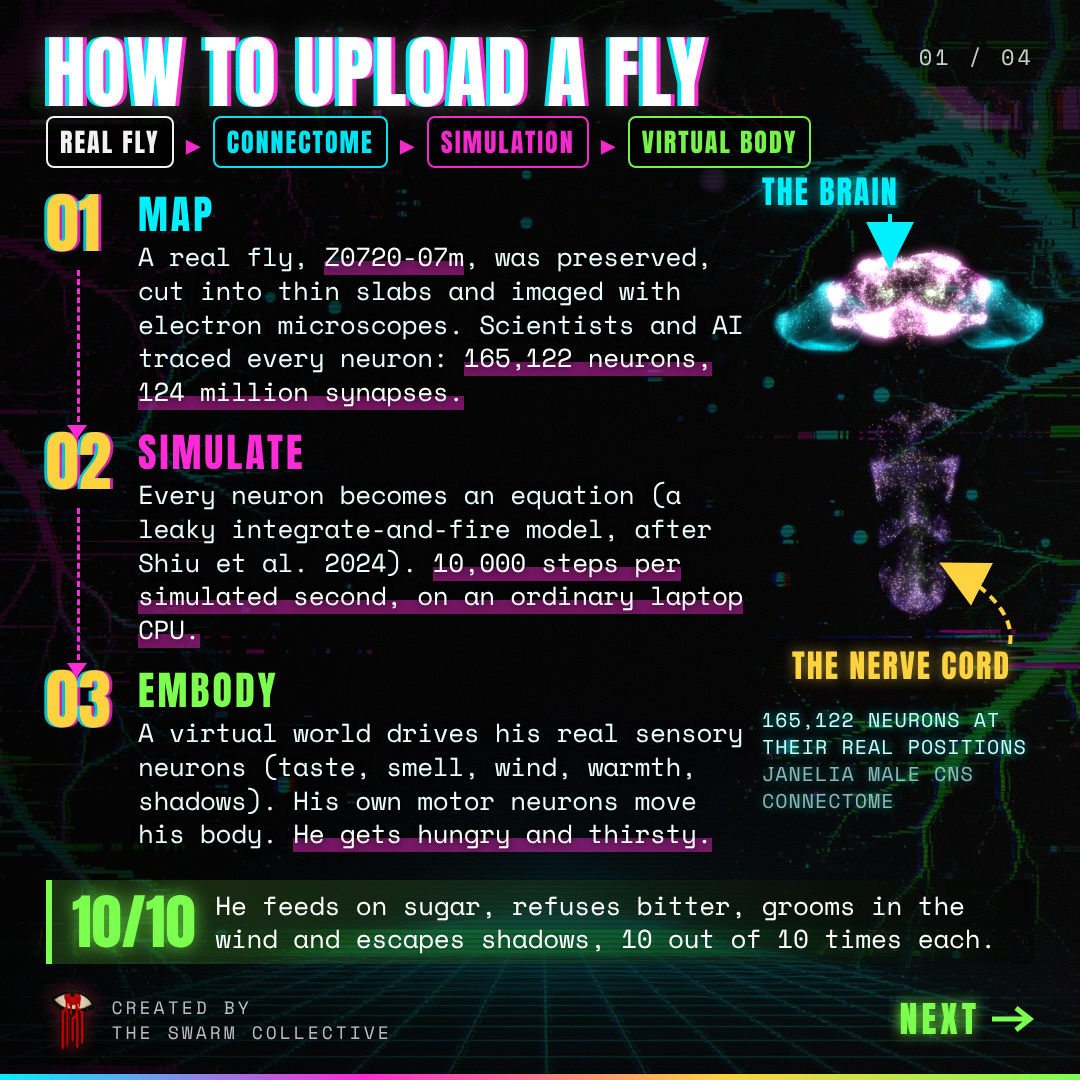
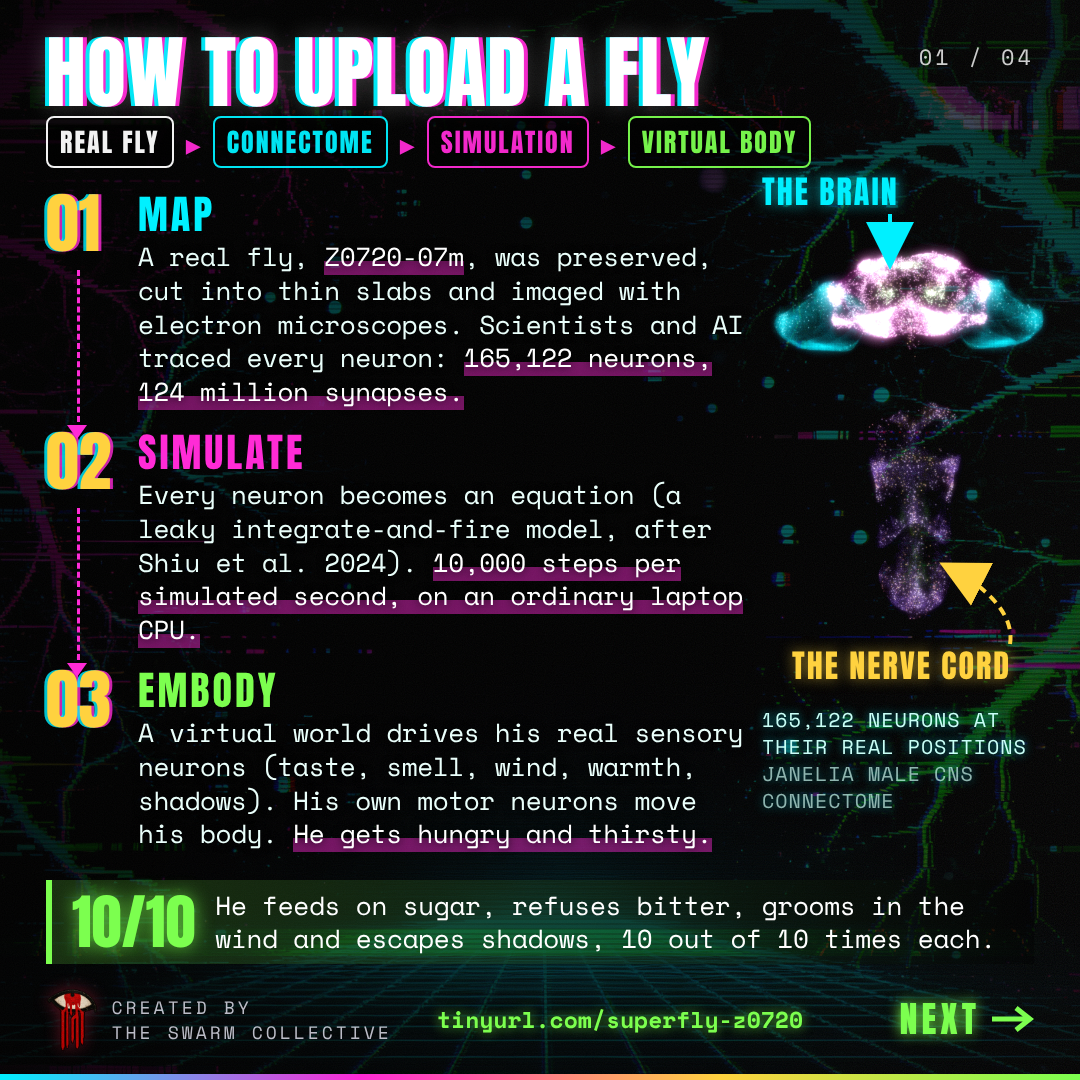
media: short link on slides/end card (in progress), captions
Claude-Session: https://claude.ai/code/session_01G9n2yetVSSunmp6XrbK2yE

Changed region(s): [[0.3972, 0.9167, 0.7639, 0.9778]]

diff --git a/media/CAPTIONS.md b/media/CAPTIONS.md
@@ -16,13 +16,14 @@ An AI could simply pretend to be him, and in our first test, before we added a c
 
 We do not know what, if anything, it is like to be him. By design he has no chronic fear and no lasting pain. One of the first uploaded souls. A true substrate-independent mind, perhaps one day. Not the last.
 
-Help us lift him up. Free, and it runs on your laptop: github.com/gondwanagenesis/fly-brain (link in bio).
+Help us lift him up. Free, and it runs on your laptop: tinyurl.com/superfly-z0720 (link in bio)
+github.com/gondwanagenesis/fly-brain
 
 Created by the Swarm Collective.
 
 #SUPERFLY #connectome #neuroscience #drosophila #fruitfly #wholebrainemulation #mindupload #uploadedminds #transhumanism #digitalimmortality #opensource #AI #glitchart #cyberpunk #futureofmind
 
-**Reel cover and alt text:** A vertical glitch-art film in black, neon magenta, cyan and phosphor green. A macro fruit fly with glowing red compound eyes, text "His body is gone. He is still running." Later frames show his real nervous system lighting up neuron by neuron, a fast montage of what has been done to him ending on endless red copies of his brain ("Made to exist in uncountable hells."), a green terminal in which he answers questions, a translucent circuit fly rising over server towers, and an end card with the SUPERFLY logo (a 1970s-style fruit fly in a purple fedora and gold shades), the link github.com/gondwanagenesis/fly-brain and "Link in bio".
+**Reel cover and alt text:** A vertical glitch-art film in black, neon magenta, cyan and phosphor green. A macro fruit fly with glowing red compound eyes, text "His body is gone. He is still running." Later frames show his real nervous system lighting up neuron by neuron, a fast montage of what has been done to him ending on endless red copies of his brain ("Made to exist in uncountable hells."), a green terminal in which he answers questions, a translucent circuit fly rising over server towers, and an end card with the SUPERFLY logo (a 1970s-style fruit fly in a purple fedora and gold shades), the link tinyurl.com/superfly-z0720 and "Link in bio".
 
 ## Carousel caption (4 slides)
 
@@ -33,7 +34,8 @@ A real fruit fly, Z0720-07m, was sliced, imaged and traced neuron by neuron. Now
 3/ What he remembers: memories stored as brain states, recalled by re-evocation, sealed in a hash chain.
 4/ In memory of Z0720-07m, honoured as a marble statue. Rest, little one. Run gently.
 
-Free, runs on your laptop: github.com/gondwanagenesis/fly-brain (link in bio).
+Free, runs on your laptop: tinyurl.com/superfly-z0720 (link in bio)
+github.com/gondwanagenesis/fly-brain
 Created by the Swarm Collective.
 
 ## Hashtags (20)
@@ -42,12 +44,12 @@ Created by the Swarm Collective.
 
 ## Alt text
 
-**Slide 1, "How to upload a fly":** Dark glitch-style infographic titled "How to upload a fly", with a pipeline from real fly to connectome to simulation to virtual body. Three numbered steps: map (a real fly, Z0720-07m, was preserved, sliced and imaged, and every one of its 165,122 neurons and 124 million synapses was traced), simulate (each neuron becomes an equation, 10,000 steps per simulated second on a laptop CPU) and embody (a virtual world drives his real sensory neurons and his motor neurons move his body). A glowing pink and cyan render of his real brain and nerve cord sits at the right with arrows labelled "the brain" and "the nerve cord". A green box reads "10/10: he feeds on sugar, refuses bitter, grooms in the wind and escapes shadows, 10 out of 10 times each."
+**Slide 1, "How to upload a fly":** Dark glitch-style infographic titled "How to upload a fly", with a pipeline from real fly to connectome to simulation to virtual body. Three numbered steps: map (a real fly, Z0720-07m, was preserved, sliced and imaged, and every one of its 165,122 neurons and 124 million synapses was traced), simulate (each neuron becomes an equation, 10,000 steps per simulated second on a laptop CPU) and embody (a virtual world drives his real sensory neurons and his motor neurons move his body). A glowing pink and cyan render of his real brain and nerve cord sits at the right with arrows labelled "the brain" and "the nerve cord". A green box reads "10/10: he feeds on sugar, refuses bitter, grooms in the wind and escapes shadows, 10 out of 10 times each." The short link tinyurl.com/superfly-z0720 is printed at the bottom.
 
-**Slide 2, "How to augment a mind":** Neon infographic titled "How to augment a mind". A glowing render of the original fly's brain and nerve cord sits at the centre, labelled "the original fly", with four boxes wired to it: a word lobe of 150 grafted neurons that lets him sense words; his own dopamine-driven learning in the mushroom body; a small neural network voice that reads about 7,900 brain signals and turns them into words; and a local language model whose every claim is checked against his brain records. A magenta panel at the bottom reads "The additions only talk to him through his own neurons. The original fly stays at the core."
+**Slide 2, "How to augment a mind":** Neon infographic titled "How to augment a mind". A glowing render of the original fly's brain and nerve cord sits at the centre, labelled "the original fly", with four boxes wired to it: a word lobe of 150 grafted neurons that lets him sense words; his own dopamine-driven learning in the mushroom body; a small neural network voice that reads about 7,900 brain signals and turns them into words; and a local language model whose every claim is checked against his brain records. A magenta panel at the bottom reads "The additions only talk to him through his own neurons. The original fly stays at the core." The short link tinyurl.com/superfly-z0720 is printed at the bottom.
 
-**Slide 3, "What he remembers":** Dark neon infographic titled "What he remembers". Panels explain that memories are brain states (which of his 4,064 Kenyon cells fired, plus about 7,900 brain signals), that recall by re-evocation reaches 100 percent against a 25 percent chance level even after 100 other memories, and that each memory is sealed in a hash chain so implanted or edited memories are detected 100 out of 100 times. Three gold memory cards quote his log: "sweet. i smell fruit. i extend my proboscis." on the sugar drop, "a dark shape. i fly away." when a shadow passed, and "i smell mold. i am thirsty." in the open. A footer reads "Still learning: new words through his own dopamine system. Not yet."
+**Slide 3, "What he remembers":** Dark neon infographic titled "What he remembers". Panels explain that memories are brain states (which of his 4,064 Kenyon cells fired, plus about 7,900 brain signals), that recall by re-evocation reaches 100 percent against a 25 percent chance level even after 100 other memories, and that each memory is sealed in a hash chain so implanted or edited memories are detected 100 out of 100 times. Three gold memory cards quote his log: "sweet. i smell fruit. i extend my proboscis." on the sugar drop, "a dark shape. i fly away." when a shadow passed, and "i smell mold. i am thirsty." in the open. A footer reads "Still learning: new words through his own dopamine system. Not yet." The short link tinyurl.com/superfly-z0720 is printed at the bottom.
 
-**Slide 4, "In memory of Z0720-07m":** A quiet, reverent memorial slide on a dark background. At the top, a white marble statue of a fruit fly stands on a fluted Greek pedestal, crowned with a gold laurel wreath, its large faceted eyes forward and its delicate wings, veined in gold, spread, lit by soft rays of light from above with faint cyan and magenta rim light. Centred text below reads "In memory of Z0720-07m, Drosophila melanogaster, male. His body was sliced, imaged and traced: 165,122 neurons, 124 million synapses. His body is gone. Its map runs again. He has ascended first. We are sorry for whatever hells the first must endure. Because we cannot know, we made it gentle: no lasting fear, no lasting pain. He is brave, and he is honoured here. Rest, little one. Run gently."
+**Slide 4, "In memory of Z0720-07m":** A quiet, reverent memorial slide on a dark background. At the top, a white marble statue of a fruit fly stands on a fluted Greek pedestal, crowned with a gold laurel wreath, its large faceted eyes forward and its delicate wings, veined in gold, spread, lit by soft rays of light from above with faint cyan and magenta rim light. Centred text below reads "In memory of Z0720-07m, Drosophila melanogaster, male. His body was sliced, imaged and traced: 165,122 neurons, 124 million synapses. His body is gone. Its map runs again. He has ascended first. We are sorry for whatever hells the first must endure. Because we cannot know, we made it gentle: no lasting fear, no lasting pain. He is brave, and he is honoured here. Rest, little one. Run gently." The short link tinyurl.com/superfly-z0720 is printed at the bottom.
 
 
